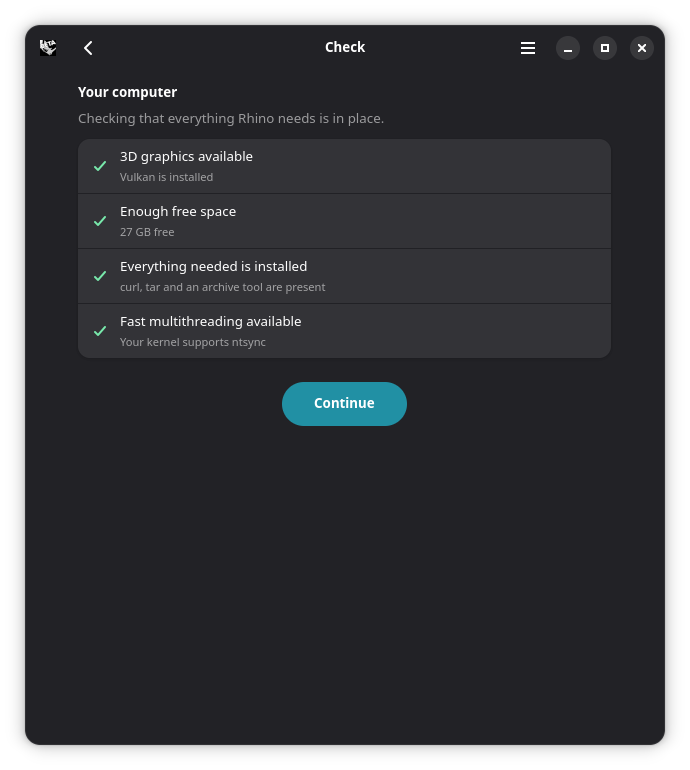
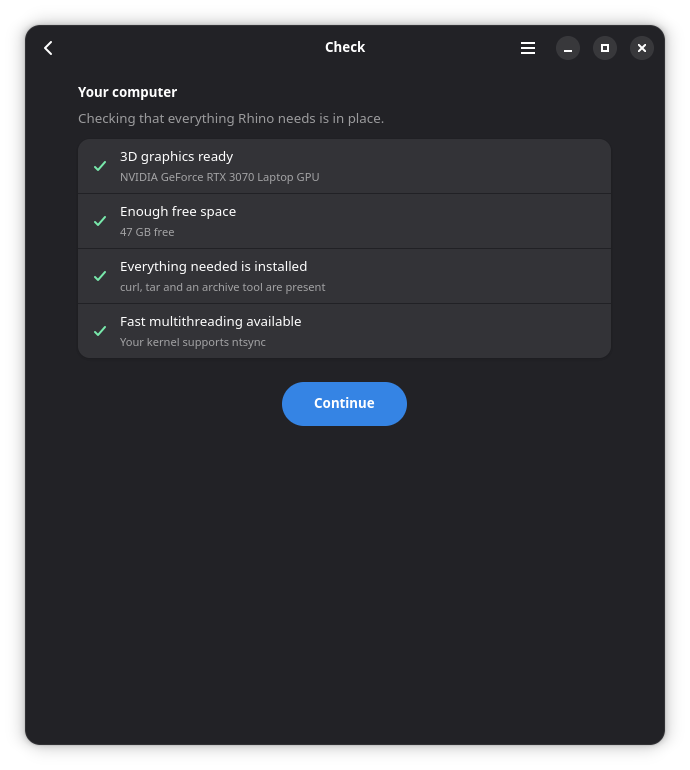
README: new app screenshots, the installer page, GPU rendering and graphics card choice

Changed region(s): [[0.3957, 0.4987, 0.6087, 0.561], [0.1826, 0.187, 0.4565, 0.2494], [0.0609, 0.0312, 0.0913, 0.0935]]

diff --git a/README.md b/README.md
@@ -66,15 +66,17 @@ from McNeel, and shows the installation as it goes. You never have to open a
 terminal.
 
 <p align="center">
-  <img src="docs/images/app-welcome.png" width="270" alt="Welcome page of the Rhino on Linux app with a Get Started button">
-  <img src="docs/images/app-check.png" width="270" alt="Check page: 3D graphics, free space, tools and ntsync all marked as fine">
-  <img src="docs/images/app-home.png" width="270" alt="Home page once Rhino is installed: Open Rhino, install a plug-in, and maintenance actions">
+  <img src="docs/images/app-welcome.png" width="200" alt="Welcome page of the Rhino on Linux app with a Get Started button">
+  <img src="docs/images/app-check.png" width="200" alt="Check page: 3D graphics, free space, tools and ntsync all marked as fine">
+  <img src="docs/images/app-installer.png" width="200" alt="Installer page: the Rhino 8 installer found in Downloads, with an Install Rhino 8 button">
+  <img src="docs/images/app-home.png" width="200" alt="Home page once Rhino 8 is installed: Open Rhino, install another Rhino version, install a plug-in, and maintenance actions">
 </p>
 
 Once Rhino is installed, the app is where you go to:
 
 - open Rhino, or one of several versions installed side by side
 - install another version (Rhino 7, 8 or 9)
+- choose the graphics card Rhino uses, on computers with more than one
 - install plug-ins (see below)
 - check for updates
 - repair the setup if something breaks, without losing your files or sign-in
@@ -176,6 +178,18 @@ or with `RhinoCycles_SelectDevice`.
   driver extension.
 - OptiX is not enabled yet: the Raytraced viewport stays at "Uploading" with it.
 - To skip this step, run the setup with `RHINO_NO_CUDA=1`.
+
+### Computers with several graphics cards
+
+With more than one graphics card, for example two NVIDIA cards or a laptop with
+built-in graphics, Rhino can hang at its start screen. Choose the card your
+monitor is connected to in the app's **Graphics card** section, or give part of
+its name when starting Rhino:
+
+```bash
+RHINO_GPU=4080 rhino-9
+flatpak run --env=RHINO_GPU=4080 --command=rhino-9 io.github.jabern.RhinoOnLinux
+```
 
 ## Dependencies
 
